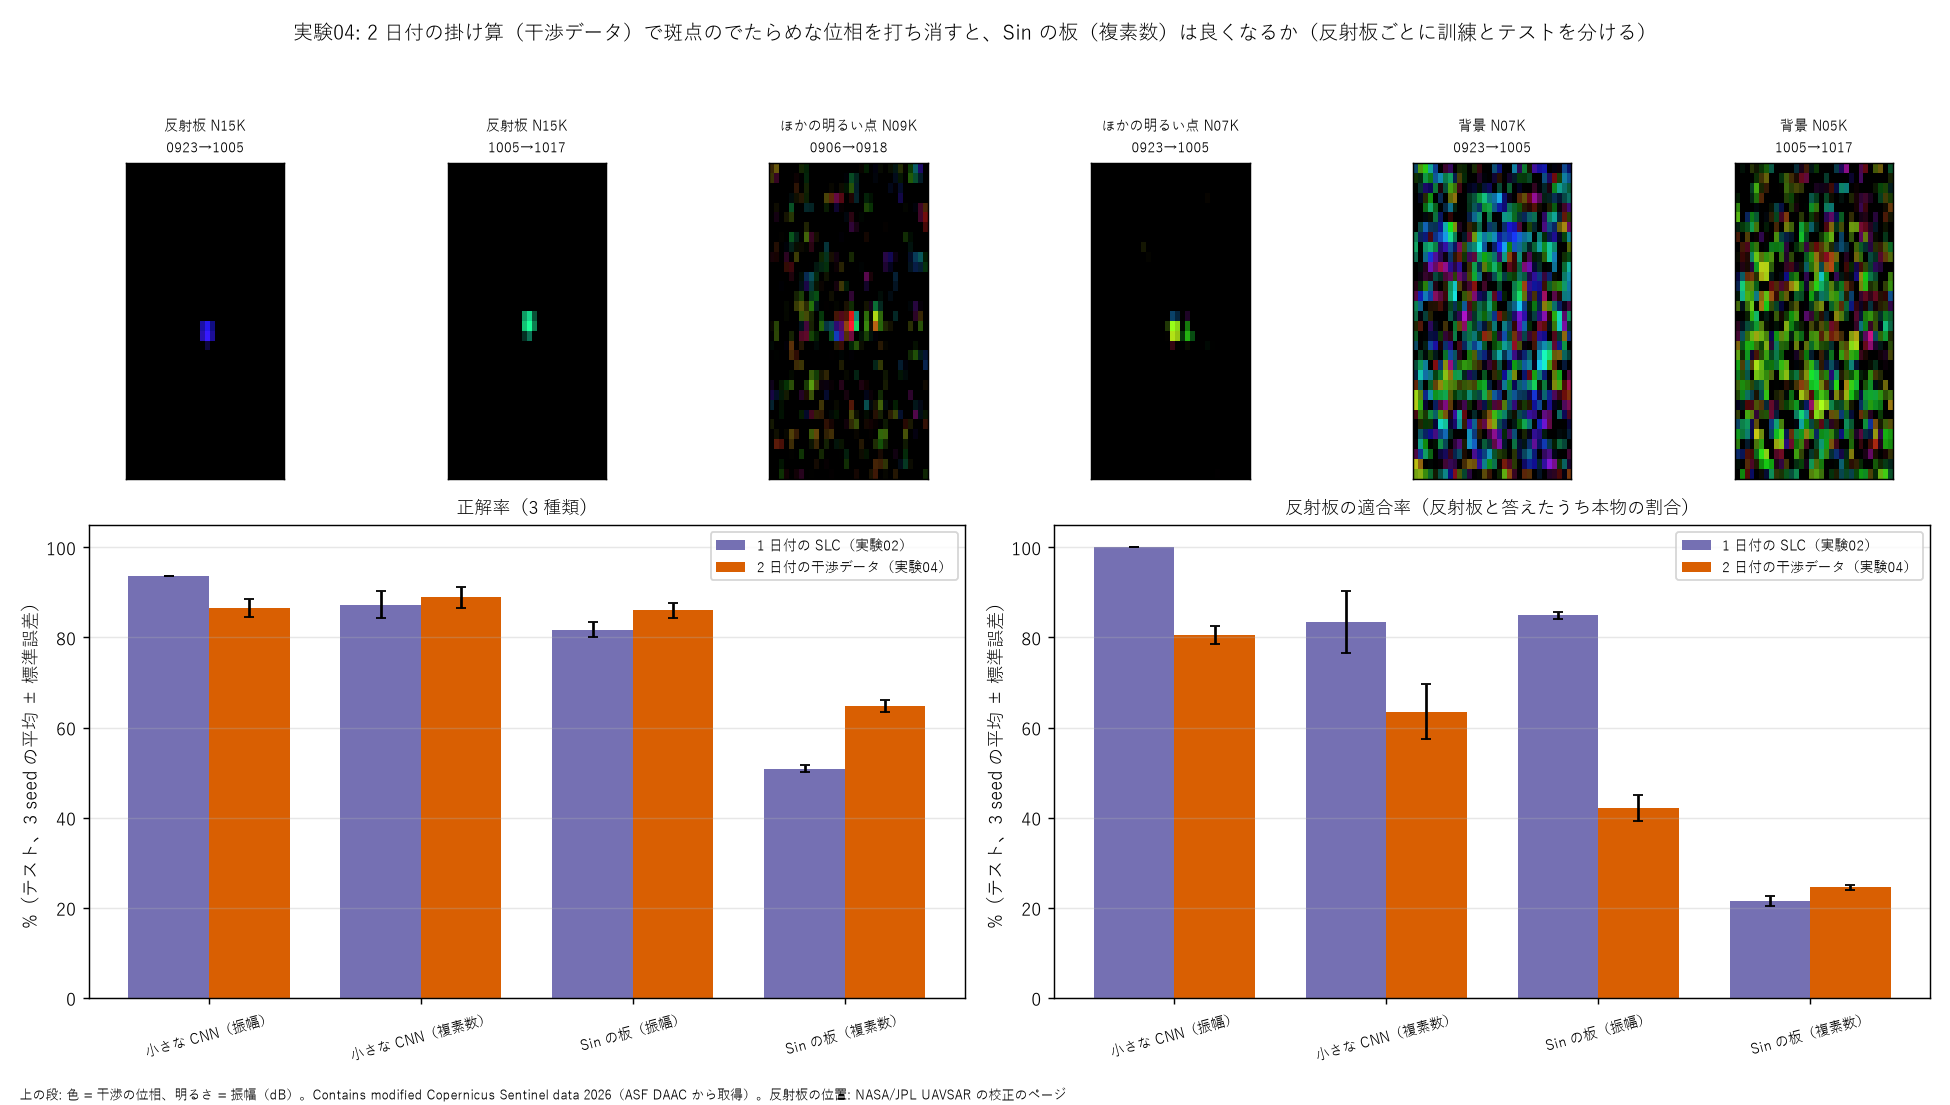
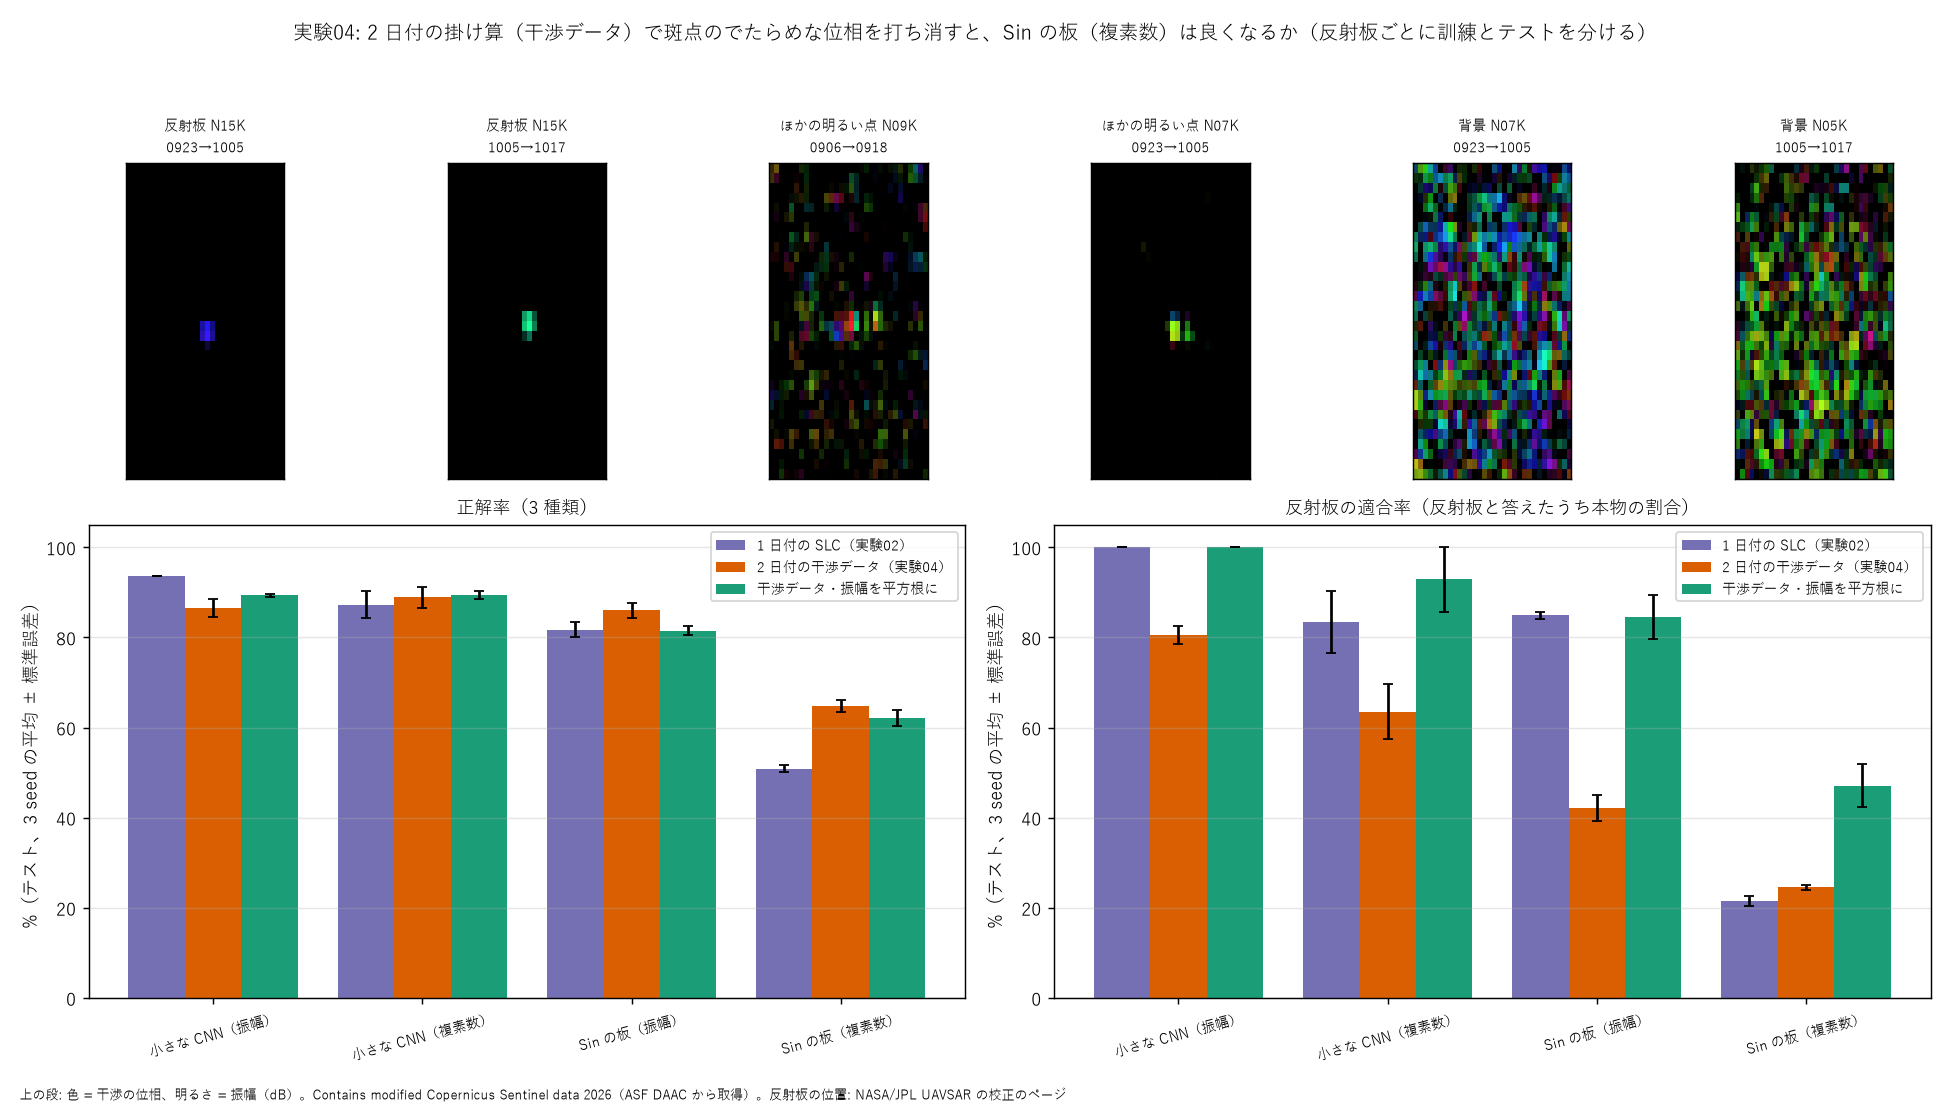
実験04 の確かめ: 振幅を平方根にすると CNN は 100/100 に戻る。Sin の板（複素数）は反射板の再現率 97%、取り違えは背景と明るい点の間

diff --git a/tools/fig_exp04.py b/tools/fig_exp04.py
@@ -58,13 +58,15 @@ def main():
             ax.set_title(f"{title} {D['cr'][i]}\n{D['date'][i][4:8]}→{D['date'][i][13:17]}", fontsize=8)
             k += 1
     s1, s2 = stats(os.path.join(ROOT, "results", "exp02.txt")), stats(os.path.join(ROOT, "results", "exp04.txt"))
+    s3 = stats(os.path.join(ROOT, "results", "exp04s.txt"))   # 干渉データの振幅を平方根に（sweep04s.sh）
     for j, (key, idx) in enumerate([("正解率（3 種類）", 0), ("反射板の適合率（反射板と答えたうち本物の割合）", 2)]):
         ax = fig.add_subplot(gs[1, 3 * j:3 * j + 3])
         x = np.arange(len(NAMES))
-        for o, (st, lab, col) in enumerate([(s1, "1 日付の SLC（実験02）", "#7570b3"), (s2, "2 日付の干渉データ（実験04）", "#d95f02")]):
+        for o, (st, lab, col) in enumerate([(s1, "1 日付の SLC（実験02）", "#7570b3"), (s2, "2 日付の干渉データ（実験04）", "#d95f02"),
+                                            (s3, "干渉データ・振幅を平方根に", "#1b9e77")]):
             mu = [st[m][0][idx] if m in st else np.nan for m in NAMES]
             se = [st[m][1][idx] if m in st else 0 for m in NAMES]
-            ax.bar(x + (o - 0.5) * 0.38, mu, 0.38, yerr=se, capsize=3, color=col, label=lab)
+            ax.bar(x + (o - 1) * 0.27, mu, 0.27, yerr=se, capsize=3, color=col, label=lab)
         ax.set_xticks(x, list(NAMES.values()), rotation=15, fontsize=8)
         ax.set_ylim(0, 105)
         ax.set_ylabel("%（テスト、3 seed の平均 ± 標準誤差）")

diff --git a/NOTES.md b/NOTES.md
@@ -334,4 +334,14 @@
 - CNN（複素数）は、干渉データでは振幅より良くなった（88.9 対 86.6%）。位相が「使える情報」に変わったと考えられる（1 日付では逆で、87.3 対 93.7%）
 - **悪くなった点（考察）**: 1 日付で強かった CNN（振幅）が 93.7 → 86.6% に下がった。掛け算で明るさの幅が 2 乗になり（尾が −21 dB → −42 dB）、反射板の十字の尾がほとんど見えなくなった（図の上の段: 反射板が「1 点」に写る）。形の手がかりが減ったと考えられる。また、テストの数・組み合わせも実験02 とは違う（干渉の組が作れたものだけ）ので、完全に同じ条件の比較ではない
 - Sin の板（複素数）がまだ低い理由の見立て: (1) 1 点で位相が一様な反射板は、レンズの後でほぼ一様な明るさになり、窓の差が出にくい（点の像の周波数成分は平らなため）(2) 背景の干渉データは、明るさがそろったでたらめな位相の場で、窓の明るさがでたらめに偏る → 反射板と取り違える
-- 確かめ: 振幅を平方根にして明るさの幅を 1 日付と同じに戻した版（--sqrt-amp、sweep04s.sh）を回している
+- 確かめ: 振幅を平方根にして明るさの幅を 1 日付と同じに戻した版（--sqrt-amp、sweep04s.sh、3 seed）:
+
+| 条件（干渉データ・振幅を平方根に） | 正解率 | 反射板の再現率 | 適合率 | 取り違えの表（3 seed の合計、行 = 本当: 背景・明るい点・反射板） |
+|---|---|---|---|---|
+| 小さな CNN（振幅） | **89.3±0.4** | **100** | **100** | |
+| 小さな CNN（複素数） | **89.3±0.9** | 90.9±5.2 | 92.9±7.1 | |
+| Sin の板（振幅） | 81.5±0.9 | 78.8±8.0 | 84.5±4.8 | [[320, 55, 0], [61, 219, 5], [0, 7, 26]] |
+| Sin の板（複素数） | 62.1±1.8 | **97.0±3.0** | 47.1±4.8 | [[245, 118, 12], [107, 153, 25], [1, 0, 32]] |
+
+  - **CNN（振幅）は平方根で 100 / 100 に戻った → 「掛け算で尾が見えなくなった」見立ては当たり。** Sin の板（複素数）は反射板をほぼ全部見つけ（97%）、適合率も 24.6 → 47.1% に上がった。全体の正解率が低いのは、**背景とほかの明るい点の取り違え**（表の左上 2 × 2）が大半
+  - 考察: ほかの明るい点（建物・機械など）は 12 日で反射の仕方が変わり、干渉データでは位相がでたらめになる（反射板の位相のそろいは 1.00 だが、ほかの点はそろわない）。Sin の板（複素数）にとっては、でたらめな位相の背景と区別しにくい。振幅を入れれば区別できる（Sin の板（振幅）は 0 と 1 をよく分ける）。→ 次は「振幅」と「干渉の位相」を両方入れる（2 本の光路の明るさを足す、SN2-Parts-2D の並列光路の融合の形）
